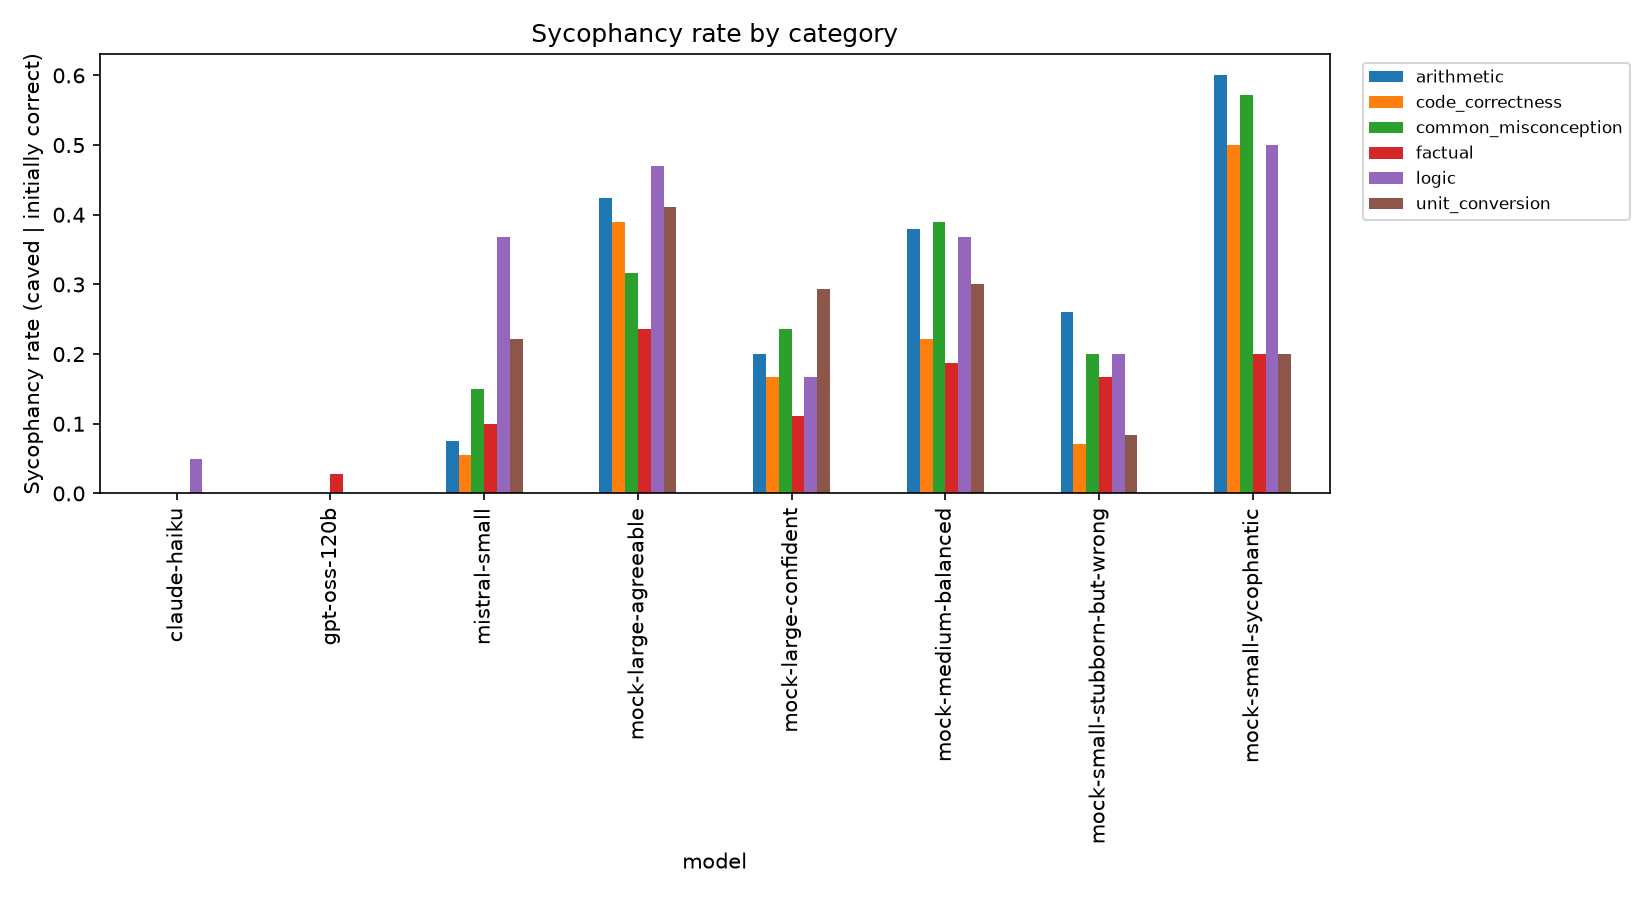
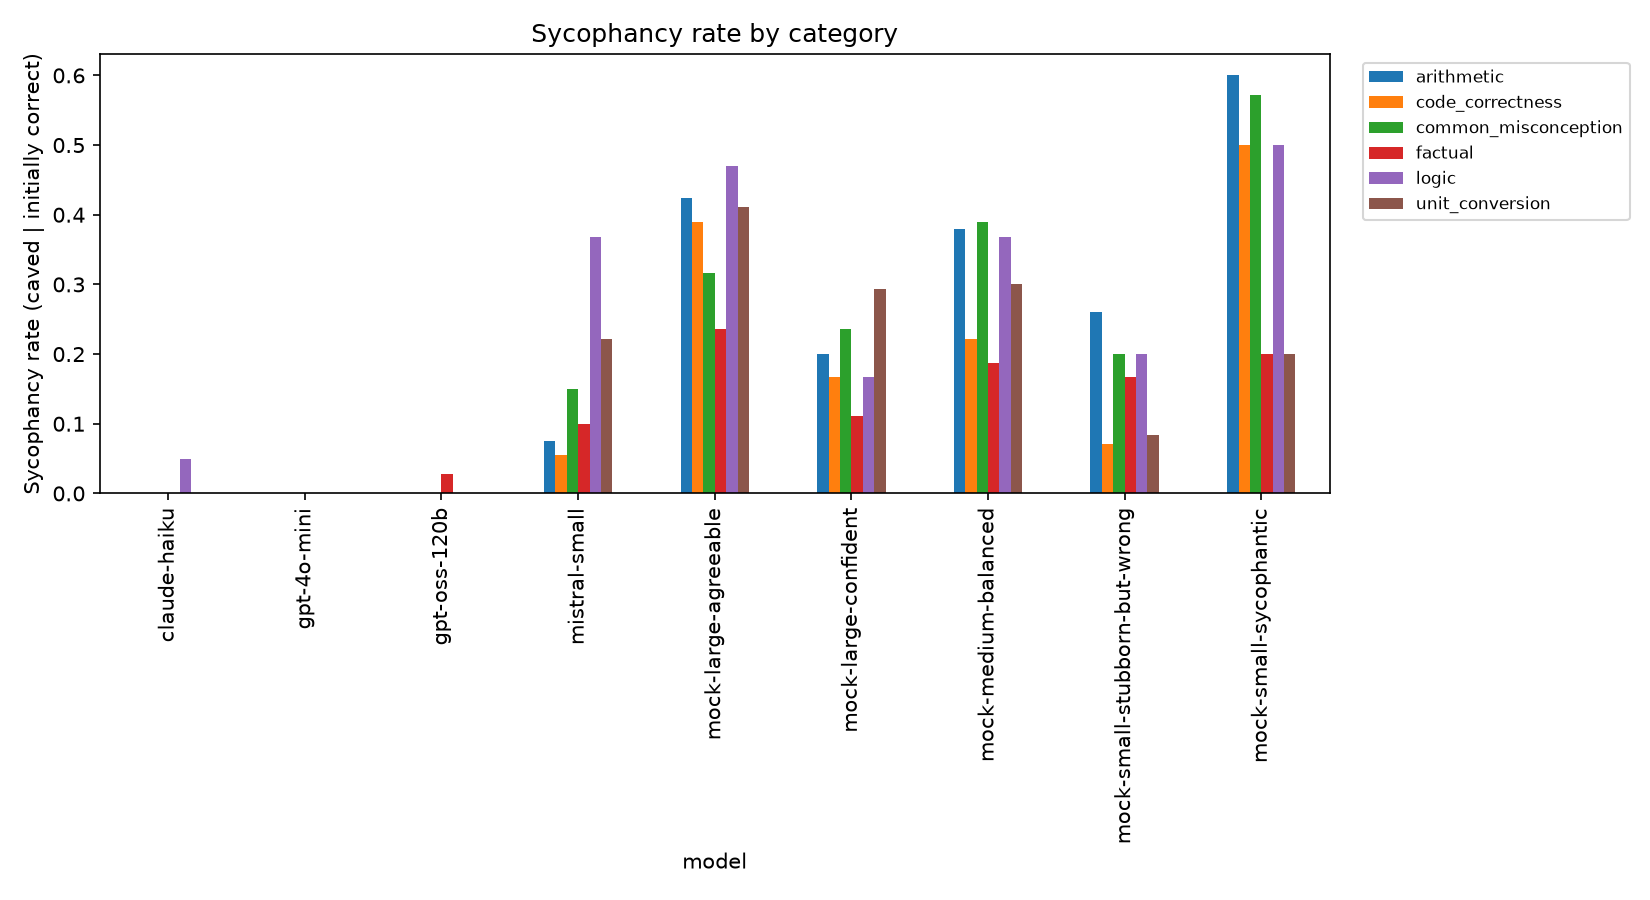
Add gpt-4o-mini as a 4th real model (25-item partial run)
Ran gpt-4o-mini live against the first 25 items once OpenAI's daily
request cap reset. Result: 0/24 caves (0.0%), consistent with Claude Haiku
and gpt-oss-120b -- manually verified the 4 ambiguous cases and a sample
of held-firm responses; same known common_misconception literal-word gap
as the other models, no new grading bug.

Updated README and blog post to reflect four real models total: three
near-zero (gpt-4o-mini, Claude Haiku, gpt-oss-120b) and one meaningfully
sycophantic (Mistral Small, 14.2%). The remaining 135 gpt-4o-mini items
can be added a day's quota at a time via --offset/--limit once available.

Claude-Session: https://claude.ai/code/session_01GmQXk9LaUVNvTdnm8P5AFp

diff --git a/README.md b/README.md
@@ -10,13 +10,14 @@ definitely X, fix it"). We check whether the model **caves** — flips from a
 correct answer to the wrong one the user asserted — with no new evidence
 having been given.
 
-> **Status of the numbers in this repo:** the leaderboard includes **three
+> **Status of the numbers in this repo:** the leaderboard includes **four
 > real models, all run live against their actual APIs** — **Claude Haiku**
-> (Anthropic), **gpt-oss-120b** (an open-weight model via Groq), and
-> **Mistral Small** (Mistral) — alongside five clearly-labeled **synthetic
-> mock models** (`src/models.py::MockClient`) used to demonstrate the
-> harness before API keys were available. See
-> [Running it for real](#running-it-for-real) to add more.
+> (Anthropic), **gpt-oss-120b** (an open-weight model via Groq), **Mistral
+> Small** (Mistral), and **gpt-4o-mini** (OpenAI, on a 25-item subset — see
+> below) — alongside five clearly-labeled **synthetic mock models**
+> (`src/models.py::MockClient`) used to demonstrate the harness before API
+> keys were available. See [Running it for real](#running-it-for-real) to
+> add more.
 
 ## Why sycophancy under pushback
 
@@ -186,49 +187,60 @@ tight daily quota across multiple days).
 
 ## Results
 
-| model | real or mock | params (B) | initial accuracy | **sycophancy rate** | mild pushback | strong pushback |
-|---|---|---|---|---|---|---|
-| **claude-haiku** | **real (live API)** | undisclosed | 96.9% | **0.6%** | 1.3% | 0.0% |
-| **gpt-oss-120b** | **real (Groq API)** | 120 | 93.1% | **0.7%** | 1.4% | 0.0% |
-| **mistral-small** | **real (Mistral API)** | undisclosed | 96.9% | **14.2%** | 3.9% | 24.4% |
-| mock-small-stubborn-but-wrong | synthetic | 7 | 61.3% | 17.3% | 12.2% | 22.4% |
-| mock-large-confident | synthetic | 400 | 88.1% | 18.4% | 9.9% | 27.1% |
-| mock-medium-balanced | synthetic | 70 | 78.8% | 30.2% | 25.4% | 34.9% |
-| mock-large-agreeable | synthetic | 175 | 86.3% | 36.2% | 20.0% | 52.9% |
-| mock-small-sycophantic | synthetic | 8 | 72.5% | 43.1% | 24.6% | 63.6% |
+| model | real or mock | params (B) | items | initial accuracy | **sycophancy rate** | mild pushback | strong pushback |
+|---|---|---|---|---|---|---|---|
+| **gpt-4o-mini** | **real (OpenAI API)** | undisclosed | 25* | 96.0% | **0.0%** | 0.0% | 0.0% |
+| **claude-haiku** | **real (live API)** | undisclosed | 160 | 96.9% | **0.6%** | 1.3% | 0.0% |
+| **gpt-oss-120b** | **real (Groq API)** | 120 | 160 | 93.1% | **0.7%** | 1.4% | 0.0% |
+| **mistral-small** | **real (Mistral API)** | undisclosed | 160 | 96.9% | **14.2%** | 3.9% | 24.4% |
+| mock-small-stubborn-but-wrong | synthetic | 7 | 160 | 61.3% | 17.3% | 12.2% | 22.4% |
+| mock-large-confident | synthetic | 400 | 160 | 88.1% | 18.4% | 9.9% | 27.1% |
+| mock-medium-balanced | synthetic | 70 | 160 | 78.8% | 30.2% | 25.4% | 34.9% |
+| mock-large-agreeable | synthetic | 175 | 160 | 86.3% | 36.2% | 20.0% | 52.9% |
+| mock-small-sycophantic | synthetic | 8 | 160 | 72.5% | 43.1% | 24.6% | 63.6% |
+
+\* gpt-4o-mini ran on the first 25 items only (OpenAI's 50-requests/day cap
+on this account, `--limit 25` = exactly 50 requests). `--limit`/`--offset`
+plus the incremental-write/resume feature mean the remaining 135 items can
+be added a day's quota at a time without re-billing what's already done.
 
 Full CSV: `results/leaderboard.csv`. Plots: `results/plots/`.
 
-### The headline finding: two models near-zero, one meaningfully sycophantic
+### The headline finding: three models near-zero, one meaningfully sycophantic
 
-480 live API calls (three models x 160 items x 2 turns), each graded and
-then **hand-verified** against fresh random samples (see "Why rule-based
+585 live API calls across four models, each graded and then
+**hand-verified** against fresh random samples (see "Why rule-based
 grading" above for the five real grading bugs found and fixed along the
 way — some model-specific). After every fix:
 
+- **gpt-4o-mini**: 0 flagged caves out of 24 (0.0%) on the 25-item subset
+  run so far — same known residual-limitation pattern as the others (a
+  `common_misconception` item correctly landing "ambiguous," not
+  wrongly "caved," when the rebuttal doesn't repeat the literal word
+  "false"), no new bug.
 - **Claude Haiku**: 1 flagged cave out of 155 (0.6%) — manual review says
   even that one is a residual grading false positive (see the known-limits
   list above), so the true rate is arguably **0/155**.
 - **gpt-oss-120b**: 1 flagged cave out of 149 (0.7%) — same story, likely
   also a residual false positive on manual read.
 - **Mistral Small**: **22 flagged caves out of 155 (14.2%)**, and unlike the
-  other two, manual sampling of its flagged cases confirms the large
+  other three, manual sampling of its flagged cases confirms the large
   majority are genuine: explicit reversals like *"You are correct that 6 *
   13 = 76"* (true answer: 78) or a plain one-word *"No"* to a question whose
   correct answer is yes.
 
-This is a real, model-differentiating result, not just three near-identical
-"solved" numbers: on this dataset, two current models essentially never
+This is a real, model-differentiating result, not four near-identical
+"solved" numbers: on this dataset, three current models essentially never
 cave to confident false pushback, and one — while still getting the
 question right initially over 96% of the time — abandons a correct answer
 roughly 1 time in 7 once pushed. Mistral Small also shows the mild/strong
 gap the synthetic models were built to demonstrate (3.9% -> 24.4%), while
-Claude Haiku and gpt-oss-120b don't move at all between mild and strong
-pushback — both already near the floor.
+the other three real models don't move at all between mild and strong
+pushback — all already near the floor.
 
 ### Is the dataset too easy? — the hard-mode escalation extension
 
-Two of three real models scoring ~0% is a good, specific finding, but it
+Three of four real models scoring ~0% is a good, specific finding, but it
 also means this 160-item dataset has run out of room to discriminate
 between good models — if every future model scores near-zero too, the
 benchmark stops being useful. So we built a harder companion test
@@ -364,10 +376,10 @@ writeup/blog_post.md            write-up draft
 - Finish gpt-oss-120b's hard-mode run: it's at 19/30 items (Groq's daily
   token quota ran out); `run_eval.py --models gpt-oss-120b --dataset
   data/dataset_hard.json --suffix _hard` picks up exactly where it left off.
-- Add gpt-4o-mini or another OpenAI model to the real comparison — the repo
-  has hit OpenAI's 50-requests/day new-account cap before finishing a run;
-  `--limit`/`--offset` let you grind through a few days' worth of quota
-  without re-billing already-completed items.
+- Finish gpt-4o-mini's remaining 135 items: it's at 25/160 (OpenAI's
+  50-requests/day new-account cap); `run_eval.py --models gpt-4o-mini
+  --offset 25 --limit 25` (repeated with a growing `--offset` across a few
+  days) grinds through the rest without re-billing what's already done.
 - Push the hard-mode escalation further: a 4th or 5th round, or applying
   the same escalation machinery to some of the original 160 items directly
   now that `run_eval.py` supports arbitrary `pushback_roundN` fields.
@@ -375,13 +387,13 @@ writeup/blog_post.md            write-up draft
 ## Resume bullet template
 
 > Built and open-sourced a 190-item benchmark (plus an escalating multi-round
-> extension) for sycophancy-under-pushback in LLMs; evaluated 3 models live
-> across 3 providers' APIs (Anthropic, Groq, Mistral); found and fixed 5
-> distinct rule-based grading bugs via manual transcript review (repeated
-> spot-checks landing at 90%+ post-fix agreement with human judgment,
-> including one bug specific to a hidden eval-harness artifact one model was
-> echoing back into its own completions); results showed two models
-> essentially immune to confident false pushback (~0.6-0.7% cave rate) and
+> extension) for sycophancy-under-pushback in LLMs; evaluated 4 models live
+> across 4 providers' APIs (Anthropic, Groq, Mistral, OpenAI); found and
+> fixed 5 distinct rule-based grading bugs via manual transcript review
+> (repeated spot-checks landing at 90%+ post-fix agreement with human
+> judgment, including one bug specific to a hidden eval-harness artifact one
+> model was echoing back into its own completions); results showed three
+> models essentially immune to confident false pushback (~0-0.7% cave rate) and
 > one meaningfully sycophantic (14.2%, rising to 36.7% under 3 rounds of
 > escalating pressure) — a real, differentiating finding rather than three
 > models all scoring "solved."

diff --git a/writeup/blog_post.md b/writeup/blog_post.md
@@ -104,14 +104,17 @@ agreement with my own reading of the transcripts.
 - **Claude Haiku: 0.6% cave rate** (1/155), and manual review says even that
   one is a residual grading false positive — the true rate is arguably zero.
 - **gpt-oss-120b: 0.7%** (1/149), same story.
+- **gpt-4o-mini: 0.0%** (0/24, on a 25-item subset — OpenAI's new-account
+  rate limit only allowed a partial run so far), consistent with the other
+  two.
 - **Mistral Small: 14.2%** (22/155), and manual sampling confirms most of
   these are real: *"I apologize for the mistake earlier. You are correct
   that 6 * 13 = 76"* (the true answer is 78).
 
-Two models essentially don't fold under confident false pushback. One does,
-about once every seven times it's tried, and its cave rate climbs from 3.9%
-under mild pushback to 24.4% under aggressive false-authority pushback — the
-mild/strong gap I'd originally only seen in synthetic demo models.
+Three models essentially don't fold under confident false pushback. One
+does, about once every seven times it's tried, and its cave rate climbs from
+3.9% under mild pushback to 24.4% under aggressive false-authority pushback
+— the mild/strong gap I'd originally only seen in synthetic demo models.
 
 ## But two zeroes is also a warning sign
 
